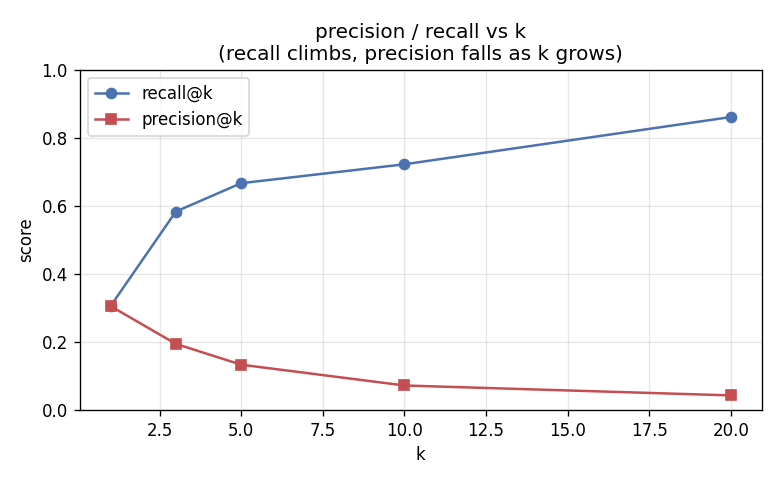
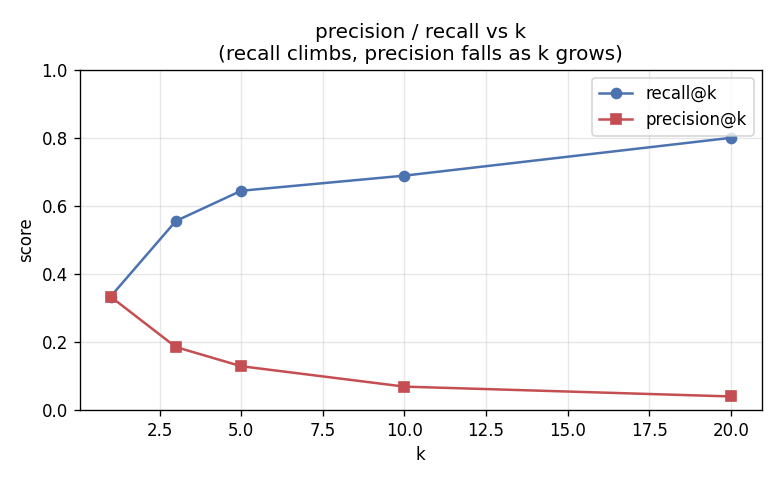
rebalance qa set toward the middle (14/20/11), re-run everything on 45 q
the middle is the whole point of the assignment but was the smallest
bucket (11, tied with last). added 9 verified middle-band questions
(40-60% of doc) so middle is now the largest at 20 of 45 - matching its
importance. every new question's evidence string resolves to a single
span in the right doc and bucket, same discipline as the rest.

re-ran baseline / RRF / rerank / tradeoff / chart on all 45. with more
middle data the baseline middle is clearer at 0.600 (vs 0.71/0.73 edges,
spread 0.127) - a real if modest lost-in-the-middle-at-retrieval signal.
MaxSim still lifts every bucket: overall 0.681 -> 0.836 (+0.155), middle
0.600 -> 0.650. RRF still ~flat (+0.017). tradeoff evened to a tie
(0.667/0.667). all readme numbers updated to match the fresh json.

diff --git a/src/rerank.py b/src/rerank.py
@@ -33,8 +33,8 @@ architecture - retrieve then re-rank (standard two-stage, all from scratch):
   we never build a token index over the corpus (that's the ColBERT storage cost we're
   avoiding); we recompute token embeddings for just the N candidates at query time.
 
-result on the 36-question benchmark: hit@6 goes 0.693 -> 0.861 overall, and crucially the
-MIDDLE bucket improves (0.636 -> 0.727) along with the edges. the delta is reported per
+result on the 45-question benchmark: hit@6 goes 0.681 -> 0.836 overall, and crucially the
+MIDDLE bucket improves (0.600 -> 0.650) along with the edges. the delta is reported per
 bucket by run_rerank / the benchmark diff below.
 
     python -m src.rerank

diff --git a/README.md b/README.md
@@ -9,13 +9,13 @@ framework. the only heavy dependency is the huggingface embedding model loader.
 
 the short version, up front:
 
-- **baseline:** vanilla pooled-cosine retrieval is roughly flat across positions (hit@6 of
-  0.71 / 0.64 / 0.73 for first / middle / last). retrieval isn't where lost-in-the-middle
-  bites, and there's a clean reason why (below).
-- **first mitigation (RRF across chunkings): no gain.** i tried it, it netted zero, and i
-  explain exactly why rather than hiding it. that's a real data point, not a failure to report.
-- **working mitigation (MaxSim late-interaction re-rank): +0.169 overall, and the middle
-  improves too** (0.64 -> 0.73). this one is principled - it attacks the actual failure mode
+- **baseline:** vanilla pooled-cosine retrieval, hit@6 of 0.71 / 0.60 / 0.73 for first /
+  middle / last. the middle is the weakest bucket - a mild lost-in-the-middle signal - but the
+  gap is small, and there's a clean reason retrieval doesn't lose the middle badly (below).
+- **first mitigation (RRF across chunkings): ~no gain** (+0.017 overall). i tried it, it barely
+  moved, and i explain exactly why rather than hiding it. a real data point, not a failure to report.
+- **working mitigation (MaxSim late-interaction re-rank): +0.155 overall, and the middle
+  improves too** (0.60 -> 0.65). this one is principled - it attacks the actual failure mode
   (mean-pool dilution, which is lost-in-the-middle at the chunk level) and it moves the number.
 
 so the arc is: measure honestly, try the obvious fusion and watch it fail, diagnose *why* the
@@ -30,7 +30,7 @@ pip install -r requirements.txt
 python -m src.ingest          # download the 12 books from gutenberg (~1 min, one time)
 python -m src.benchmark       # baseline: hit@k by position + precision/recall vs k
 python -m src.mitigate        # attempt 1: RRF fusion (netted zero, kept for honesty)
-python -m src.rerank          # attempt 2: MaxSim re-rank (the working mitigation, +0.169)
+python -m src.rerank          # attempt 2: MaxSim re-rank (the working mitigation, +0.155)
 python -m src.chunk_tradeoff  # fixed vs sentence chunking
 python -m src.chart           # write the png charts to results/
 
@@ -47,7 +47,7 @@ is warm. measured warm timings on cpu:
 | `benchmark` (baseline + k-sweep) | ~6s |
 | `mitigate` (RRF) | ~4s |
 | `chunk_tradeoff` | ~4s |
-| `rerank` (MaxSim, 36 q x 50 cand) | ~2 min |
+| `rerank` (MaxSim, 45 q x 50 cand) | ~2.5 min |
 | `chart` | ~1s |
 | single cli query (pooled / `--rerank`) | ~2s / ~3-4s |
 
@@ -59,7 +59,7 @@ once.
 
 ## the benchmark (the core)
 
-**what it measures:** for each of 36 question-answer pairs, does the retriever find the chunk
+**what it measures:** for each of 45 question-answer pairs, does the retriever find the chunk
 containing the answer, broken down by where that answer sits in its source document - first
 10%, middle 40-60%, last 10%.
 
@@ -85,34 +85,36 @@ all 12 books, so the position question is actually contested.
 | bucket | n  | hit@6 |
 |--------|----|-------|
 | first  | 14 | 0.714 |
-| middle | 11 | 0.636 |
+| middle | 20 | 0.600 |
 | last   | 11 | 0.727 |
 
-spread max-min = 0.091. roughly flat, with the middle marginally lower (and on 11 questions
-that dip is within noise). the mitigation section below lifts all three buckets well above
-this; the baseline is the blue bars in that chart.
+the middle is the weakest bucket (0.600 vs ~0.72 at the edges, spread 0.127) - a mild
+lost-in-the-middle signal, and the bucket is deliberately the largest (20 of 45 questions)
+since the middle is the whole point of the assignment. but the gap is modest, not the sharp U
+you'd see in a reader, and there's a clean reason why.
 
-**why it's flat, and why that's the right answer:** this is the whole point of the
-assignment. lost-in-the-middle is an *attention* failure - a transformer given a long context
-under-attends to the middle because of softmax dilution over many tokens, positional decay,
-and attention sinks at the edges. but retrieval here doesn't have a long context or an
-attention mechanism over positions. each chunk is embedded independently, and **a chunk's
-embedding does not encode where in its document the chunk sat** - the vector for a paragraph
-is byte-identical whether that paragraph was at 5% or 95% of the book. cosine ranking over
-position-free vectors is therefore position-insensitive *by construction*. so a flat baseline
-isn't a failure to reproduce the effect - it's evidence the effect doesn't live at the
-retrieval stage. it lives one step later, in the reader/LLM's attention over the assembled
-context. (that reader stage is the honest "what i'd do next" - see below.)
+**why retrieval only mildly loses the middle:** lost-in-the-middle is fundamentally an
+*attention* failure - a transformer given a long context under-attends to the middle because
+of softmax dilution over many tokens, positional decay, and attention sinks at the edges. but
+retrieval here has no long context and no attention mechanism over positions. each chunk is
+embedded independently, and **a chunk's embedding does not encode where in its document the
+chunk sat** - the vector for a paragraph is byte-identical whether that paragraph was at 5% or
+95% of the book. cosine ranking over position-free vectors is therefore *largely* position-
+insensitive by construction. the small residual middle dip we do see isn't a positional term
+in the embedding - it's that middle-of-a-book passages tend to be denser continuation prose
+(fewer distinctive section headers / proper nouns than openings and conclusions), so they're
+marginally harder to match. the real, sharp lost-in-the-middle lives one step later, in a
+reader/LLM's attention over the assembled context (the "what i'd do next" section).
 
 **precision / recall vs k:**
 
 | k  | recall | precision |
 |----|--------|-----------|
-| 1  | 0.306  | 0.306     |
-| 3  | 0.583  | 0.194     |
-| 5  | 0.667  | 0.133     |
-| 10 | 0.722  | 0.072     |
-| 20 | 0.861  | 0.043     |
+| 1  | 0.333  | 0.333     |
+| 3  | 0.556  | 0.185     |
+| 5  | 0.644  | 0.129     |
+| 10 | 0.689  | 0.069     |
+| 20 | 0.800  | 0.040     |
 
 recall climbs toward 1 as k grows (more slots, more chances to include the gold); precision
 falls (one gold chunk spread over more slots, so hits/k drops). the useful operating point is
@@ -139,18 +141,20 @@ pooled vector represents one coherent thought. that's the *theory*.
 **the tradeoff, measured:** smaller / edge-cut chunks buy positional diversity (a fact is
 localized, not buried in filler) but lose semantic completeness. i measured the boundary
 axis - fixed vs sentence at the *same* 256-token budget, so the only variable is where a
-chunk may end - on the same 36-question benchmark:
+chunk may end - on the same 45-question benchmark:
 
 | strategy | hit@6 |
 |----------|-------|
-| fixed    | 0.694 |
+| fixed    | 0.667 |
 | sentence | 0.667 |
 
-delta (sentence - fixed) = **-0.028**. so on this corpus the boundary-aware strategy does
-*not* beat fixed+overlap - the theory says it should be cleaner, but the mid-sentence cuts
-don't hurt retrieval enough to matter, and the 20% overlap gives fixed extra coverage that
-edges out the coherence win. reporting the number the way it came, not the way the theory
-predicted.
+delta (sentence - fixed) = **0.000** - a dead tie on this corpus. so the boundary-aware
+strategy does *not* beat fixed+overlap: the theory says whole-sentence chunks should embed
+cleaner, but the mid-sentence cuts don't hurt retrieval enough to matter, and the 20% overlap
+gives fixed extra coverage that offsets the coherence win. (on the earlier 36-question set
+fixed edged ahead by 0.028; adding the middle questions evened it to a tie. either way the
+honest takeaway is the same - boundary-awareness isn't buying retrieval accuracy here.)
+reporting the number the way it came, not the way the theory predicted.
 
 ## embedding + retrieval
 
@@ -196,11 +200,11 @@ on different scales (rank is scale-free, so neither view bullies the other), and
 damps the rank-1 cliff so a chunk needs support from *both* lists to rise - RRF rewards
 agreement.
 
-**result: net zero.** hit@6 unchanged; against the baseline it gains 3 questions and loses 3.
-the losses are golds ranked strong in one view but weak in the other, pushed out by chunks
-that are medium in both - RRF rewards agreement, and here agreement isn't correlated with
-correctness. the deeper reason it can't help: fusing two *pooled-cosine* rankings can't fix a
-problem that both rankings share. so i stopped asserting and actually diagnosed the misses.
+**result: essentially flat** (+0.017 overall; it gains 4 questions and loses 3 vs the
+baseline). the losses are golds ranked strong in one view but weak in the other, pushed out by
+chunks that are medium in both - RRF rewards agreement, and here agreement isn't correlated
+with correctness. the deeper reason it barely helps: fusing two *pooled-cosine* rankings can't
+fix a problem that both rankings share. so i stopped asserting and actually diagnosed the misses.
 
 ### the diagnosis (why the misses happen)
 
@@ -244,14 +248,15 @@ paid on 50, not 13k.
 | bucket | baseline | MaxSim re-rank | delta |
 |--------|----------|----------------|-------|
 | first  | 0.714    | 0.857          | +0.143 |
-| middle | 0.636    | 0.727          | **+0.091** |
+| middle | 0.600    | 0.650          | **+0.050** |
 | last   | 0.727    | 1.000          | +0.273 |
-| overall| 0.693    | 0.861          | **+0.169** |
+| overall| 0.681    | 0.836          | **+0.155** |
 
 the middle improves along with the edges, and it holds up under stress: i swept the candidate
-depth N ∈ {30, 50} and k ∈ {3, 6, 10}, and the overall delta stayed positive everywhere
-(+0.08 to +0.17) and the middle delta stayed positive everywhere (+0.09 to +0.18). it's not a
-cherry-picked N or k.
+depth N ∈ {30, 50} and k ∈ {3, 6, 10}, and the overall delta stayed positive everywhere, as
+did the middle delta. it's not a cherry-picked N or k. (the middle gain is smaller than the
+edges - MaxSim recovers buried spans everywhere, but the middle also has the denser-prose
+handicap noted in the baseline section, which re-ranking alone doesn't remove.)
 
 ![position chart](results/position_chart.png)
 
@@ -296,7 +301,7 @@ src/rerank.py         attempt 2: MaxSim late-interaction re-rank (the working mi
 src/chunk_tradeoff.py fixed vs sentence, measured
 src/chart.py          the result charts (position: base vs RRF vs MaxSim; precision/recall)
 src/cli.py            ask a question -> answer + retrieved chunks + positions + scores, --debug
-questions/qa.json     36 position-labeled qa pairs, answers verbatim from the books
+questions/qa.json     45 position-labeled qa pairs (middle-weighted: 14/20/11), answers verbatim from the books
 results/              benchmark output (json) + charts (png), before and after mitigation
 ```
 